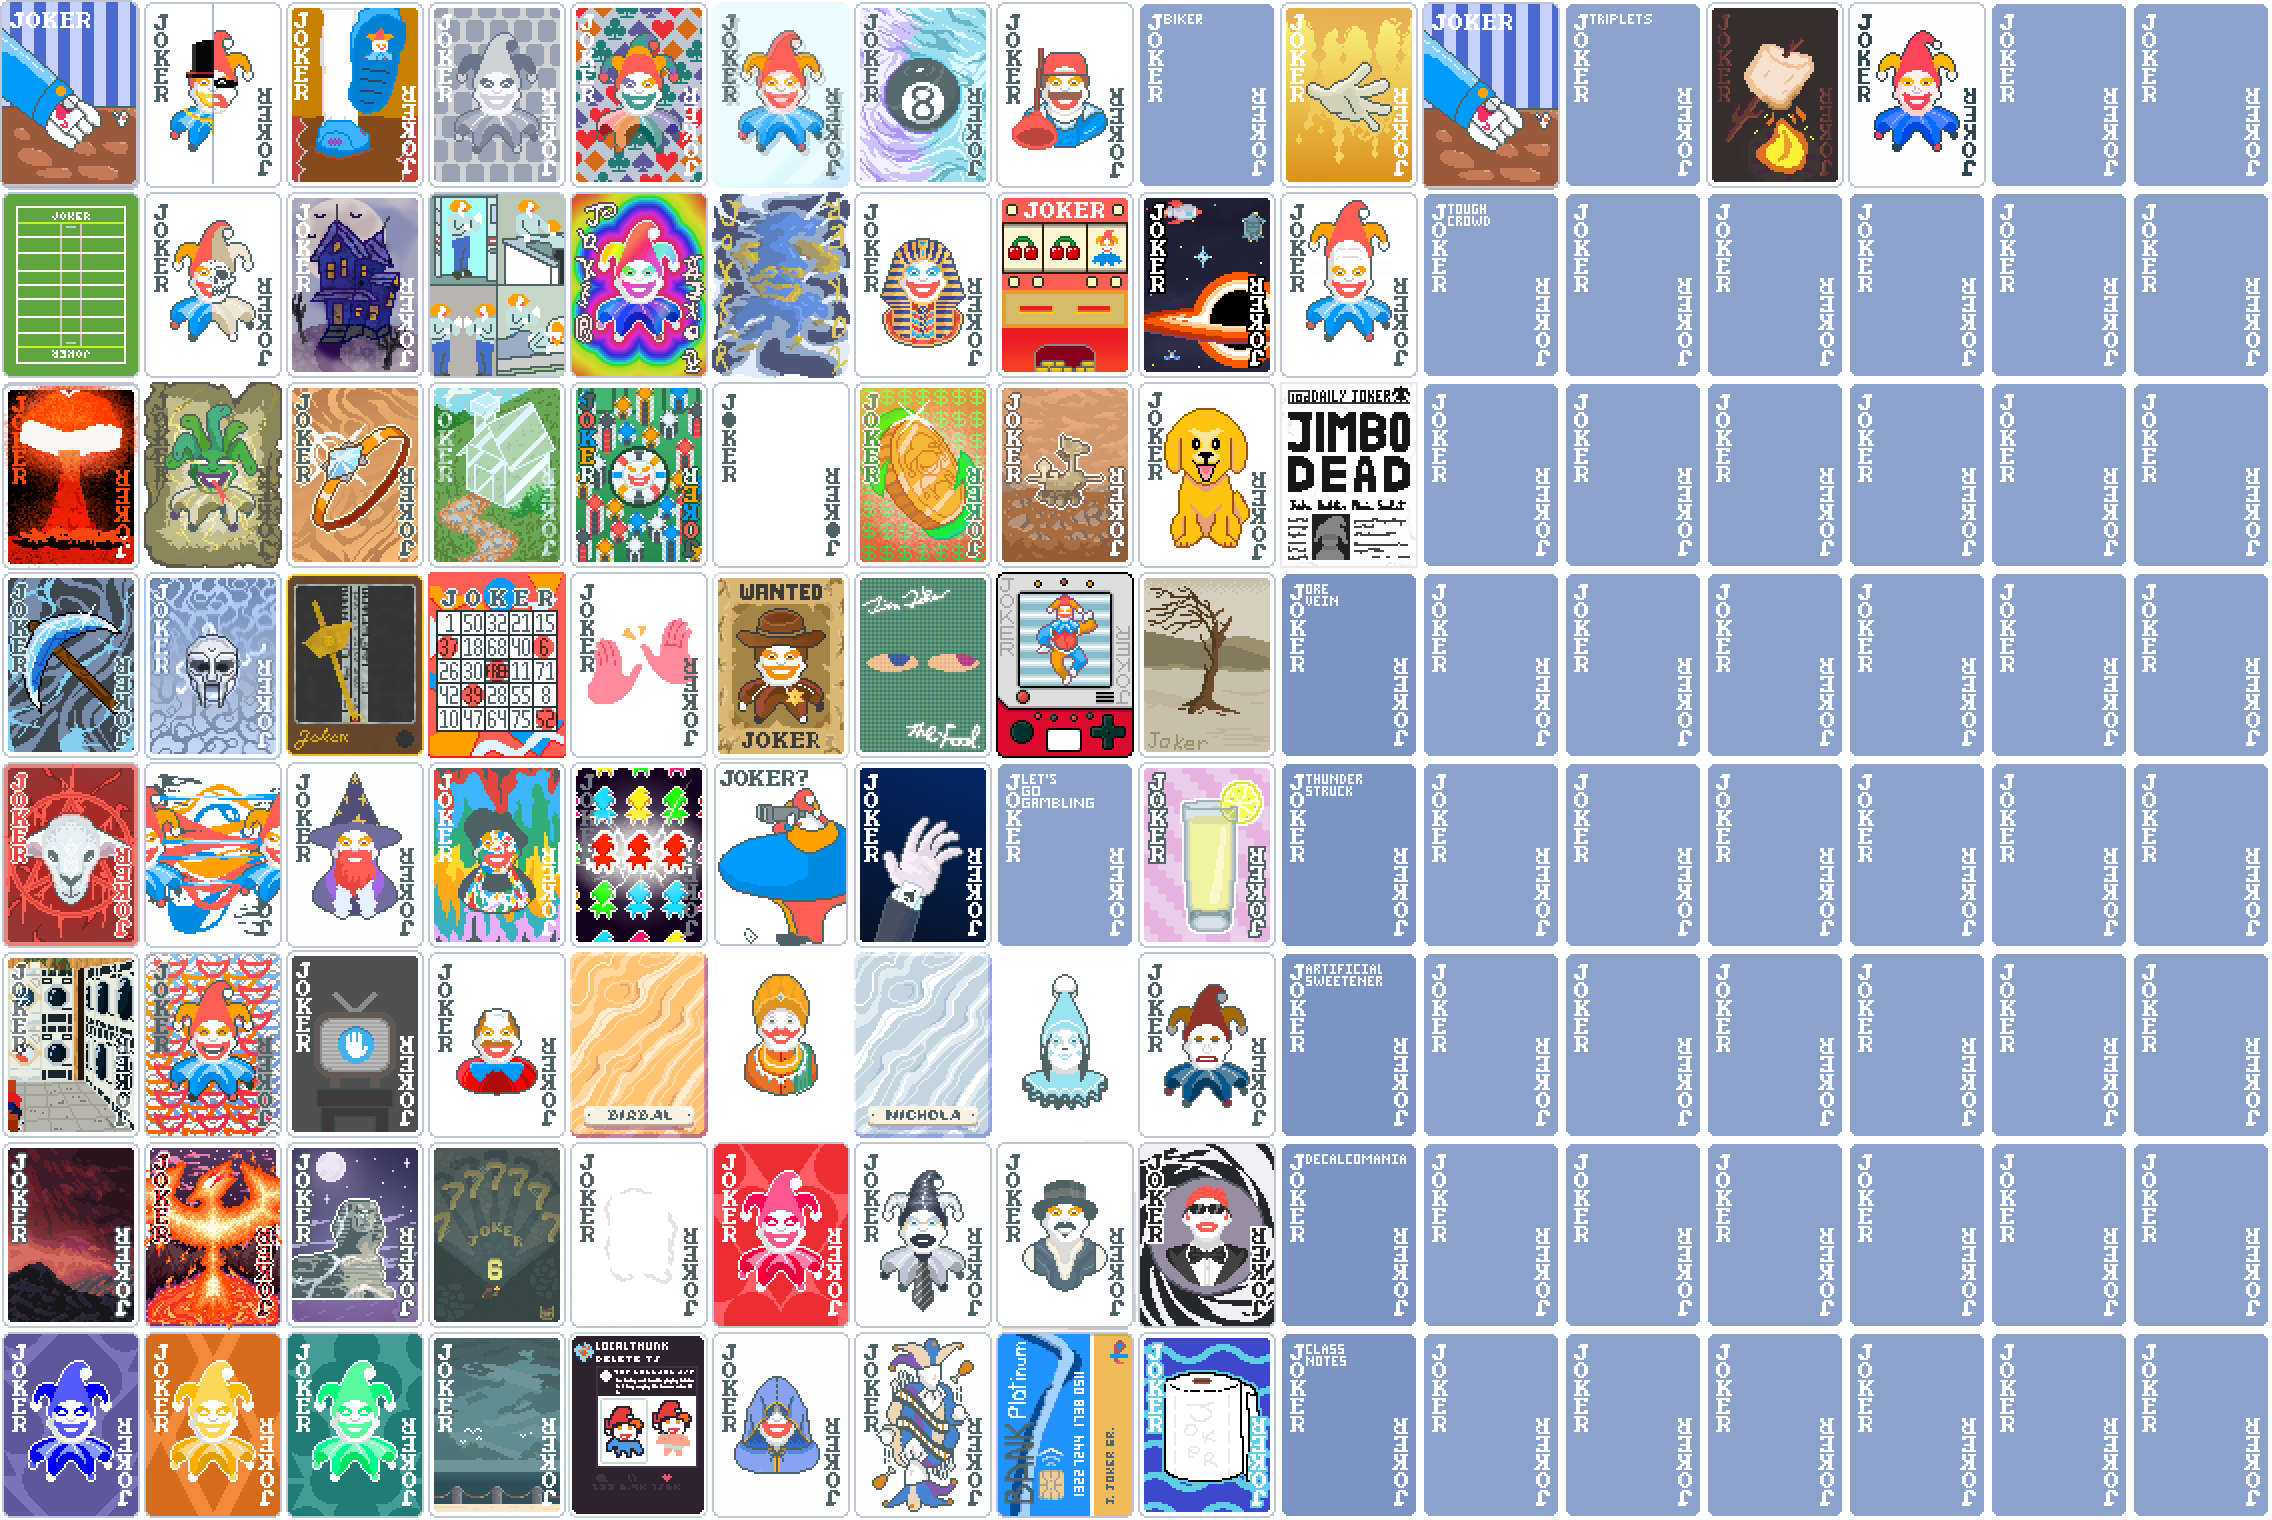
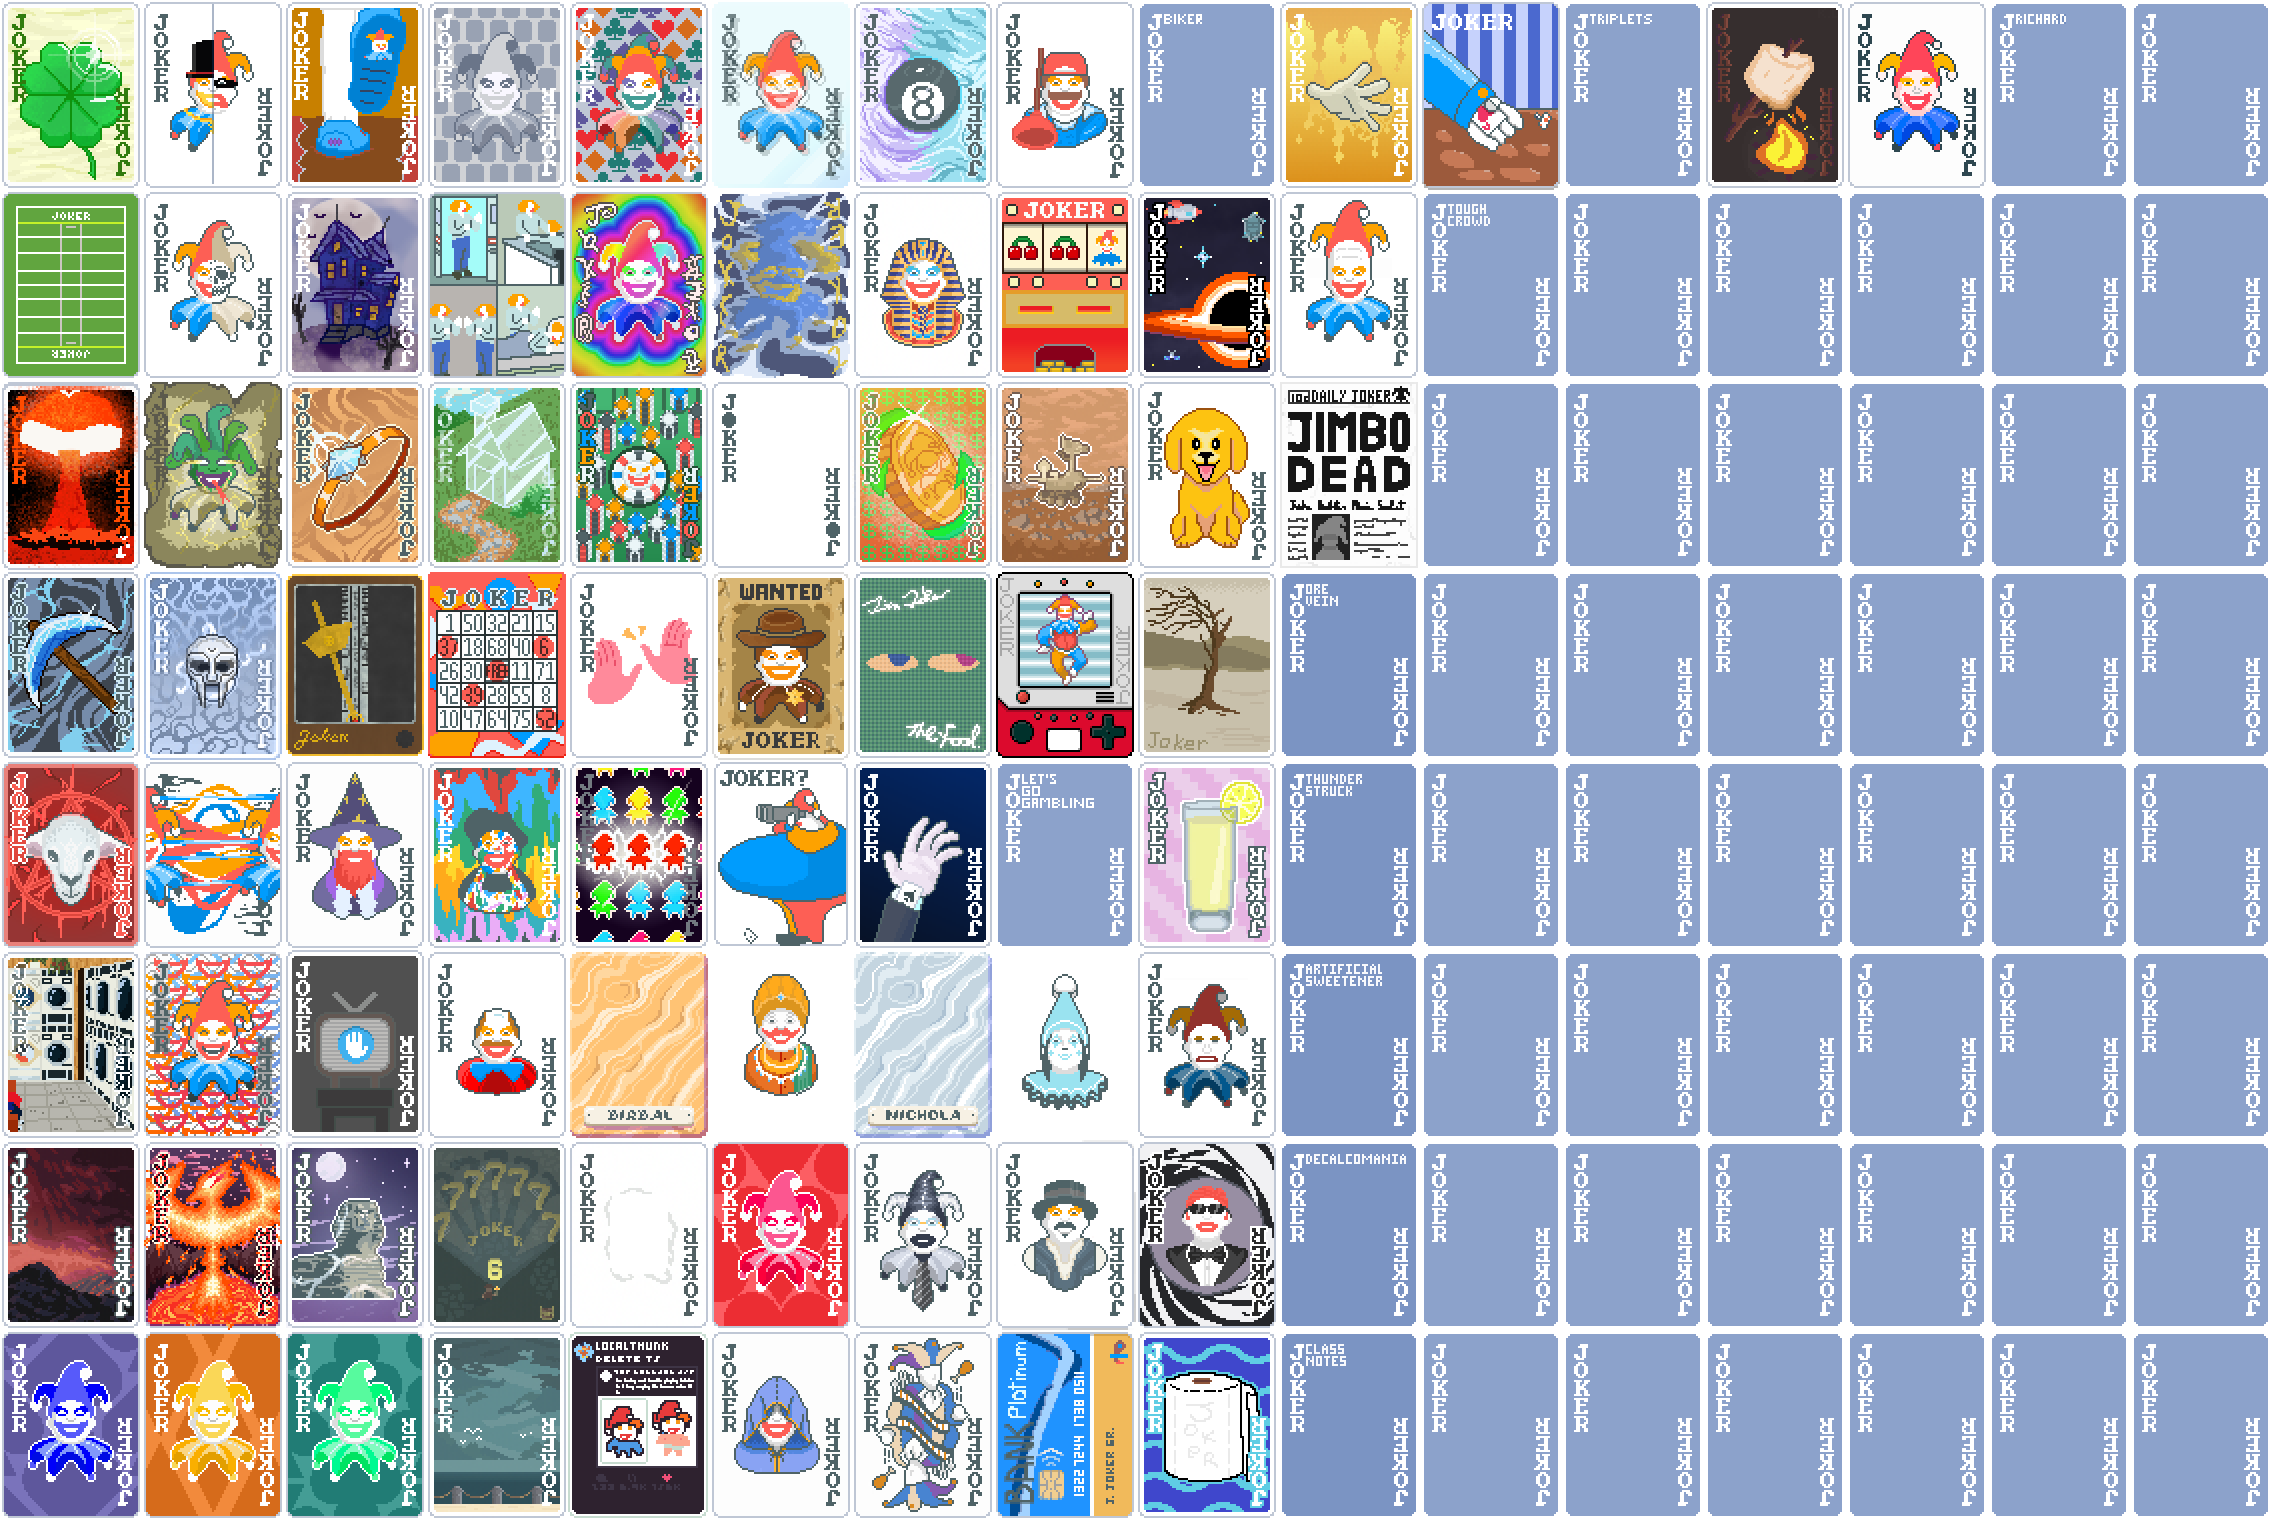
v1.3.6
- Added Richard
  - Currently Missing Joker Art
- Fixed the bug reintroduced in v1.3.4
- Added Talisman compability for Pharaoh (#19 by someonenoonnowhen)
- Fixed Rover saying "played" instead of "scored" (#19 by someonenoonnowhen)
- Temporarily disabled Roasted Marshmallow due to it being broken + unfinished
- Fixed hi five's description not being descriptive enough for some pepole (#19 by someonenoonnowhen)

Changed region(s): [[0.0, 0.0, 0.0625, 0.1237]]

diff --git a/README.md b/README.md
@@ -28,6 +28,7 @@ Feel Free to open an Issue when you find a Problem!
 - Savings Account by [Chum724](https://reddit.com/u/Chum724)
 - Slothful by [NeoShard1](https://reddit.com/u/NeoShard1)
 - Triplets by [Deitiessoul](https://reddit.com/u/Deitiessoul)
+- Magic 8 Ball (8 Ball Rework) by [TheBardicToast](https://reddit.com/u/TheBardicToast)
 ### Uncommon
 - All In by [Kyuuseishu_](https://reddit.com/u/Kyuuseishu_)
 - Artist by [TSAMarioYTReddit](https://reddit.com/u/TSAMarioYTReddit)
@@ -125,3 +126,4 @@ Feel Free to open an Issue when you find a Problem!
     - [u/babisme](https://reddit.com/u/babisme)
     - [u/Unlikely_Movie_9073](https://reddit.com/u/Unlikely_Movie_9073)
     - [u/TheUn-Nottened](https://reddit.com/u/TheUn-Nottened)
+    - [u/TheBardicToast](https://reddit.com/u/TheBardicToast)
